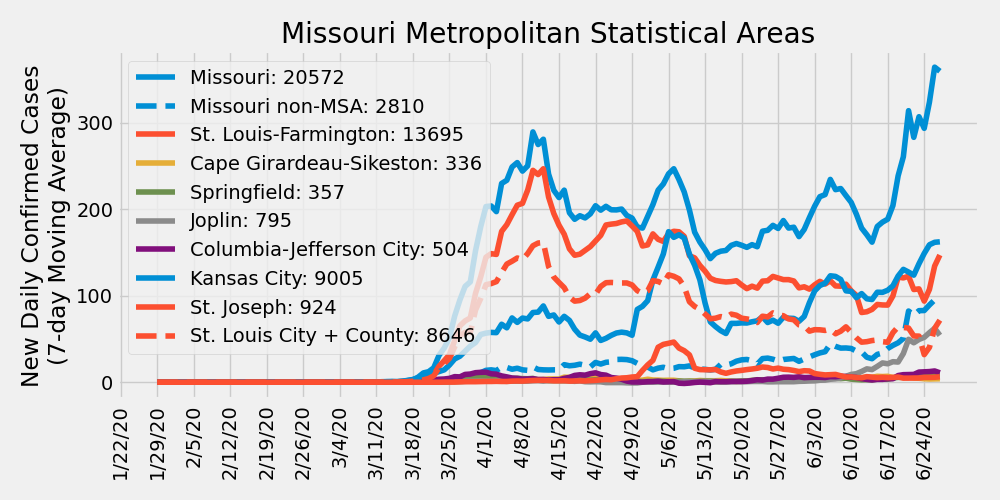
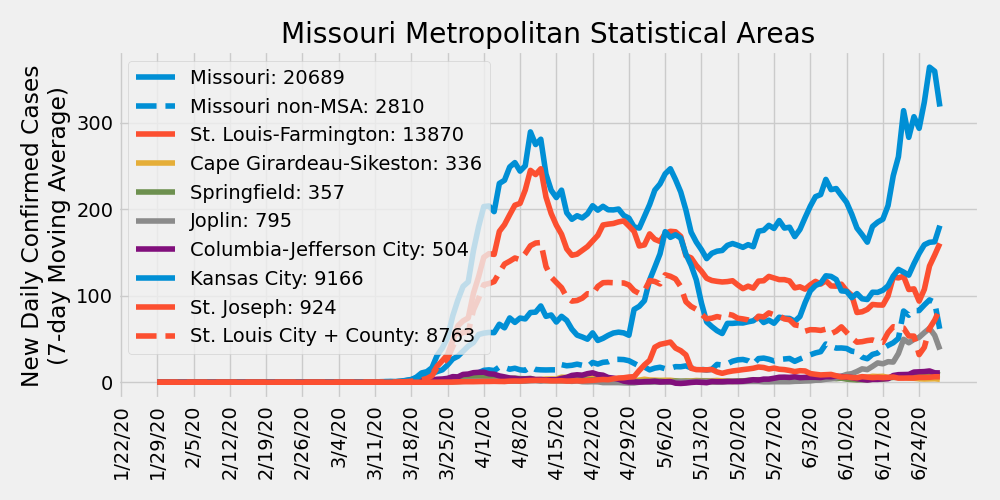
update 6/29/2020

diff --git a/ajvogt-analysis/missouri_analysis.md b/ajvogt-analysis/missouri_analysis.md
@@ -1,6 +1,6 @@
 # COVID-19 Missouri Statistics & Regional Breakdowns
 Author: Adam J. Vogt  
-Updated: 06/28/2020  
+Updated: 06/29/2020  
 Source: [COVID-19 Data Repository by the Center for Systems Science and Engineering (CSSE) at Johns Hopkins University](https://github.com/CSSEGISandData/COVID-19)  
 Source Code: `/ajvogt-analysis/mo_analysis_script.py`  
 Release Notes: [release_notes.md](https://github.com/ajvogt/COVID-19/blob/master/ajvogt-analysis/release_notes.md)
@@ -32,15 +32,15 @@ Legend shows cumulative confirmed cases
 | St. Louis-Farmington | Missouri | Franklin | 204 | 18 |
 | St. Louis-Farmington | Missouri | Jefferson | 445 | 19 |
 | St. Louis-Farmington | Missouri | St. Charles | 1010 | 73 |
-| St. Louis-Farmington | Missouri | St. Louis | 6293 | 568 |
-| St. Louis-Farmington | Missouri | St. Louis City | 2353 | 155 |
+| St. Louis-Farmington | Missouri | St. Louis | 6357 | 568 |
+| St. Louis-Farmington | Missouri | St. Louis City | 2406 | 155 |
 | St. Louis-Farmington | Missouri | St. Francois | 138 | 2 |
 | St. Louis-Farmington | Illinois | Monroe | 123 | 13 |
-| St. Louis-Farmington | Illinois | St. Clair | 1759 | 135 |
-| St. Louis-Farmington | Illinois | Madison | 903 | 68 |
+| St. Louis-Farmington | Illinois | St. Clair | 1801 | 135 |
+| St. Louis-Farmington | Illinois | Madison | 917 | 68 |
 | St. Louis-Farmington | Illinois | Macoupin | 51 | 3 |
 | St. Louis-Farmington | Illinois | Jersey | 35 | 1 |
-| St. Louis-Farmington | Illinois | Clinton | 231 | 17 |
+| St. Louis-Farmington | Illinois | Clinton | 233 | 17 |
 | St. Louis-Farmington | Illinois | Calhoun | 1 | 0 |
 | St. Louis-Farmington | Illinois | Bond | 13 | 1 |
 | Cape Girardeau-Sikeston | Missouri | Cape Girardeau | 141 | 3 |
@@ -71,8 +71,8 @@ Legend shows cumulative confirmed cases
 | Kansas City | Missouri | Clinton | 23 | 0 |
 | Kansas City | Missouri | Bates | 12 | 1 |
 | Kansas City | Missouri | Caldwell | 9 | 0 |
-| Kansas City | Kansas | Johnson | 1550 | 85 |
-| Kansas City | Kansas | Wyandotte | 2093 | 80 |
+| Kansas City | Kansas | Johnson | 1613 | 86 |
+| Kansas City | Kansas | Wyandotte | 2191 | 80 |
 | Kansas City | Kansas | Leavenworth | 1146 | 7 |
 | Kansas City | Kansas | Miami | 26 | 0 |
 | Kansas City | Kansas | Linn | 13 | 0 |
